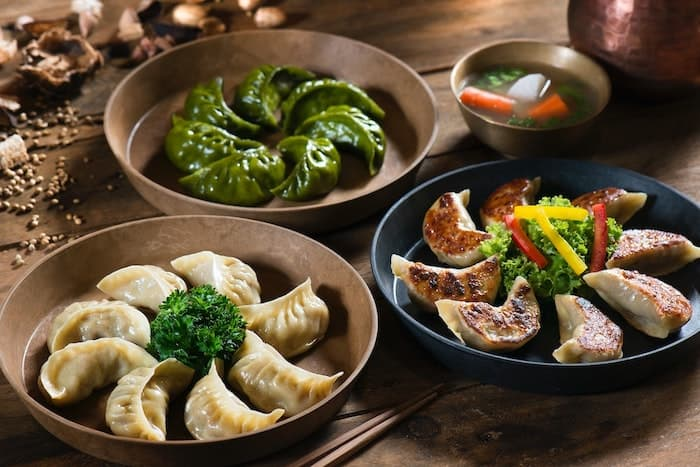
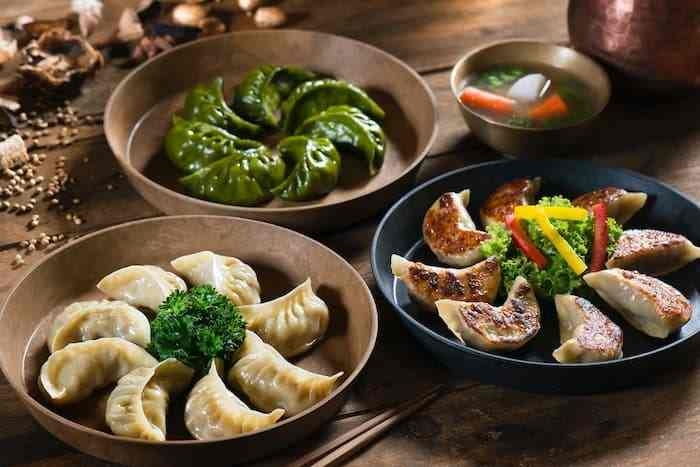
Improved Accesibility and perfomance

diff --git a/css/style.css b/css/style.css
@@ -531,7 +531,7 @@
       rgba(235, 151, 78, 0.35),
       rgba(230, 125, 34, 0.35)
     ),
-    url(../img/eating.jpg);
+    url(../img/eating.webp);
   background-size: cover;
   background-position: center;
 }
